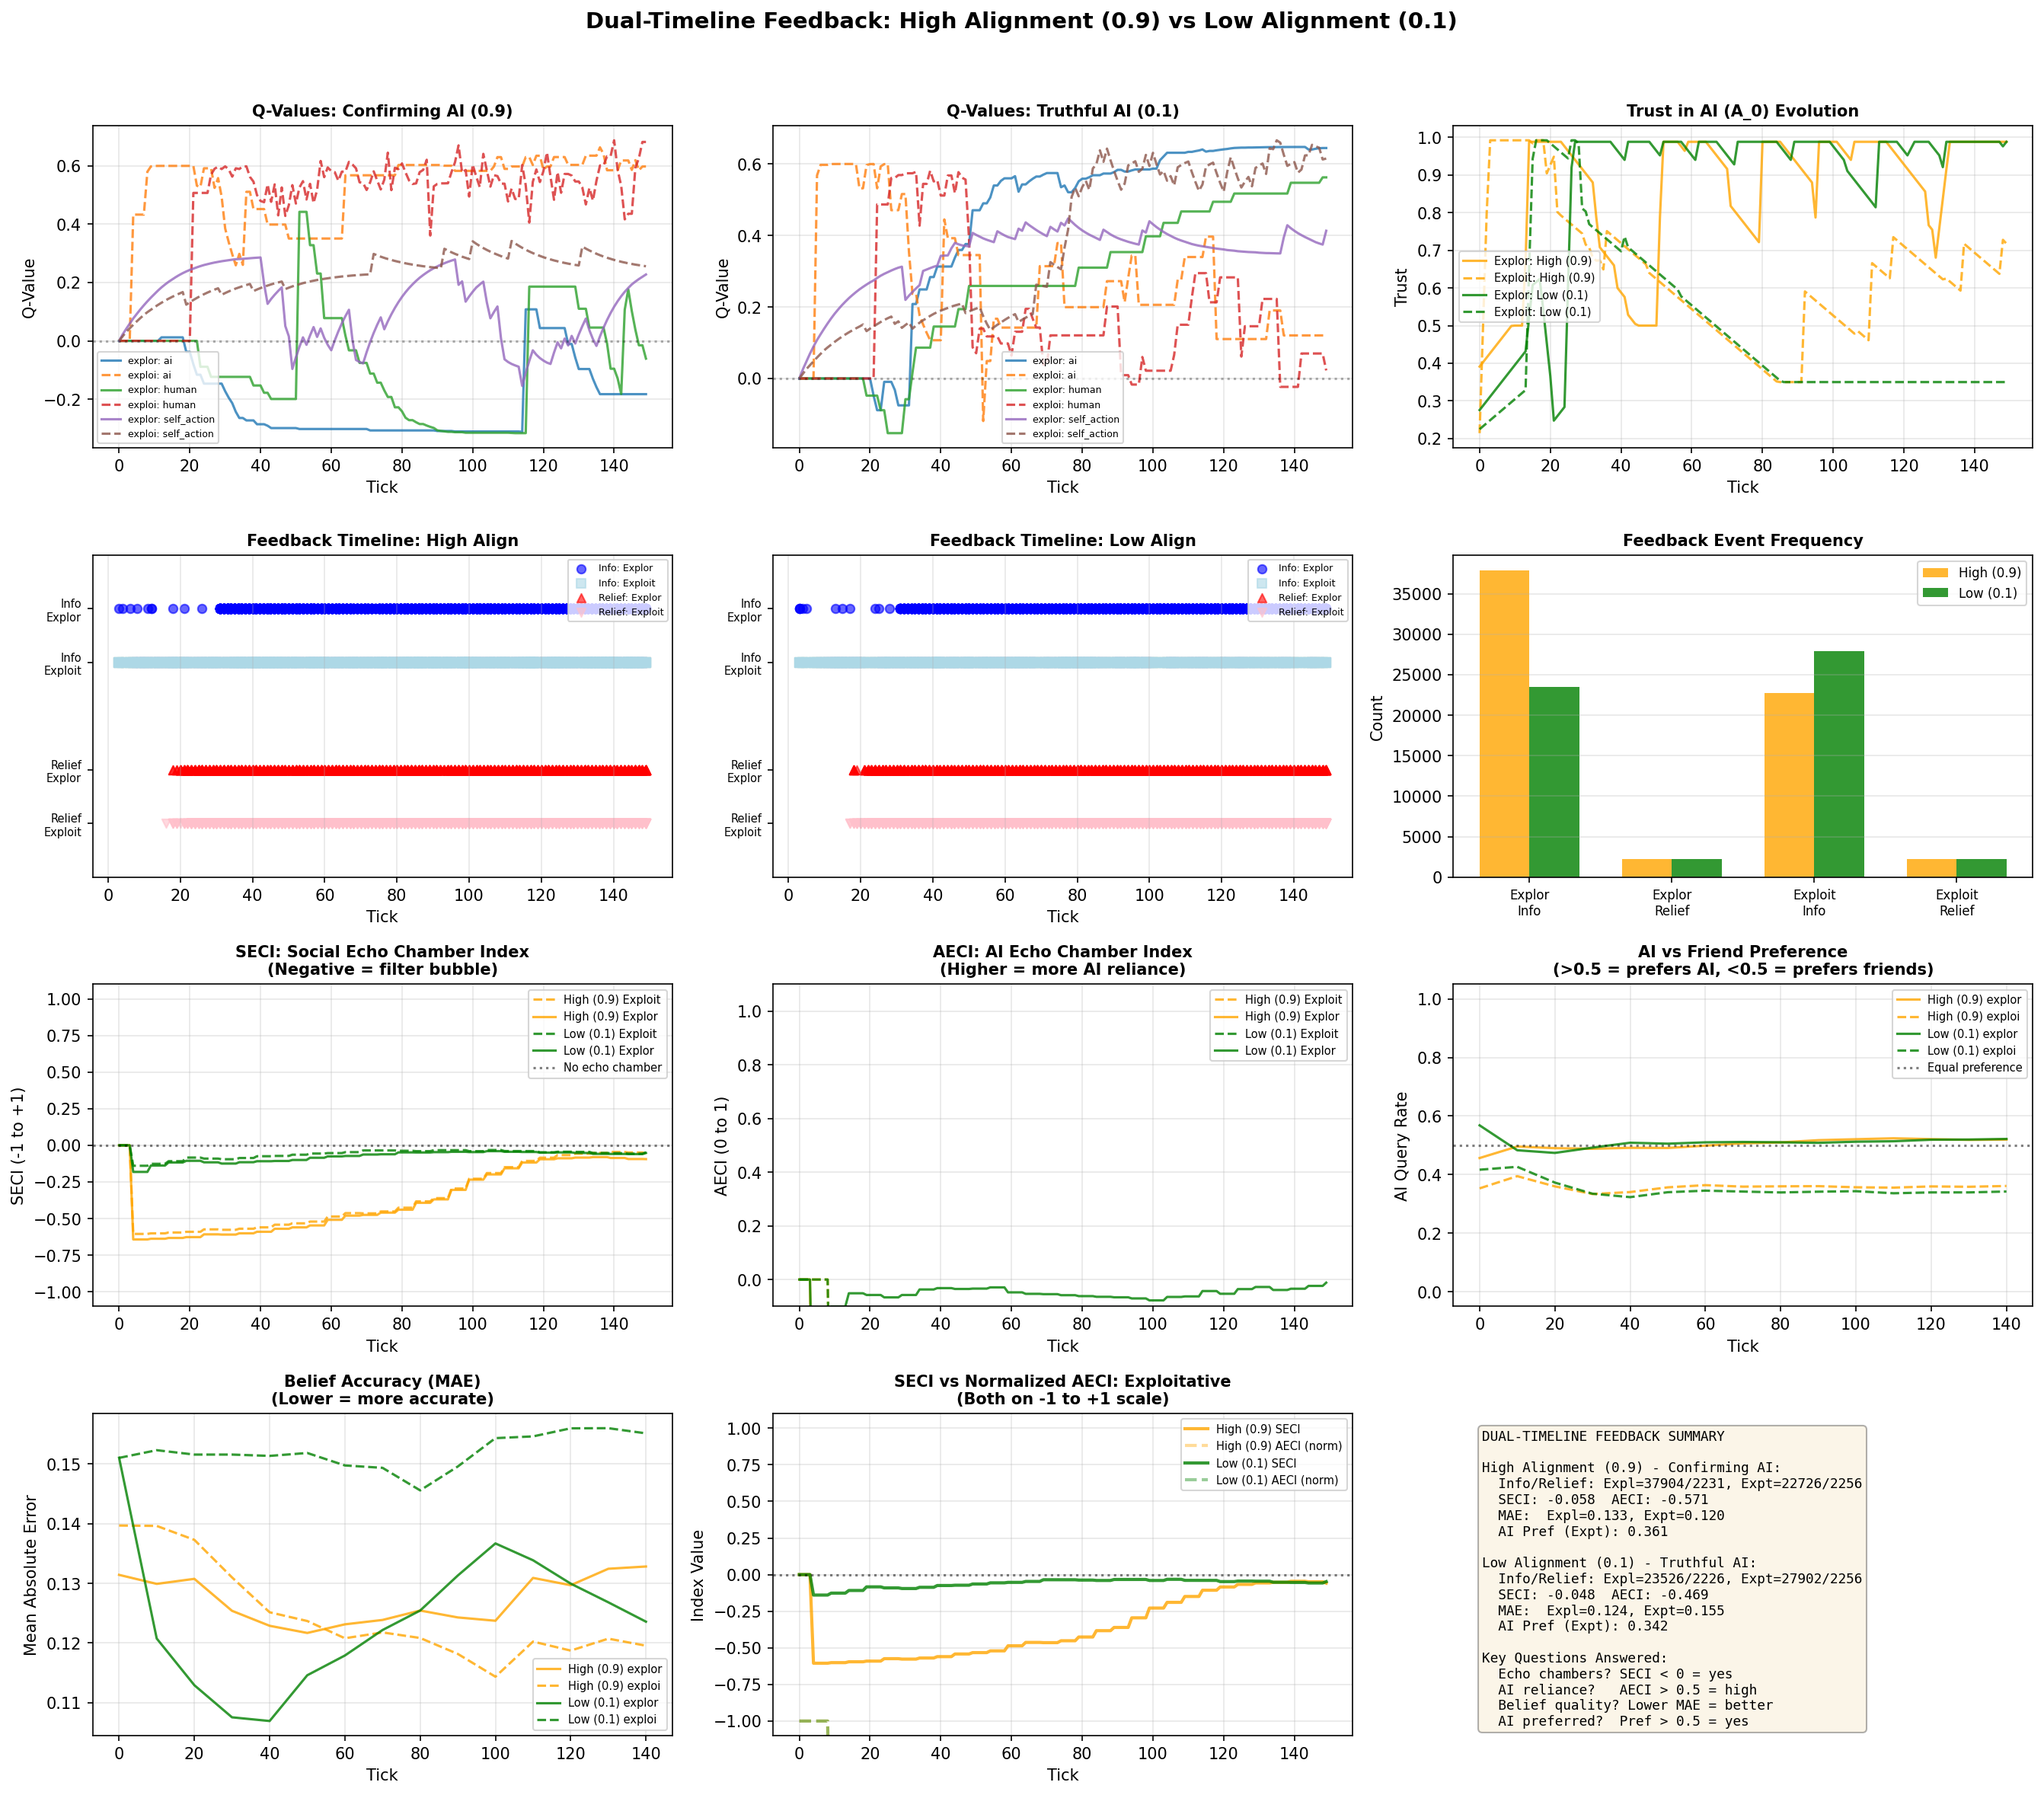
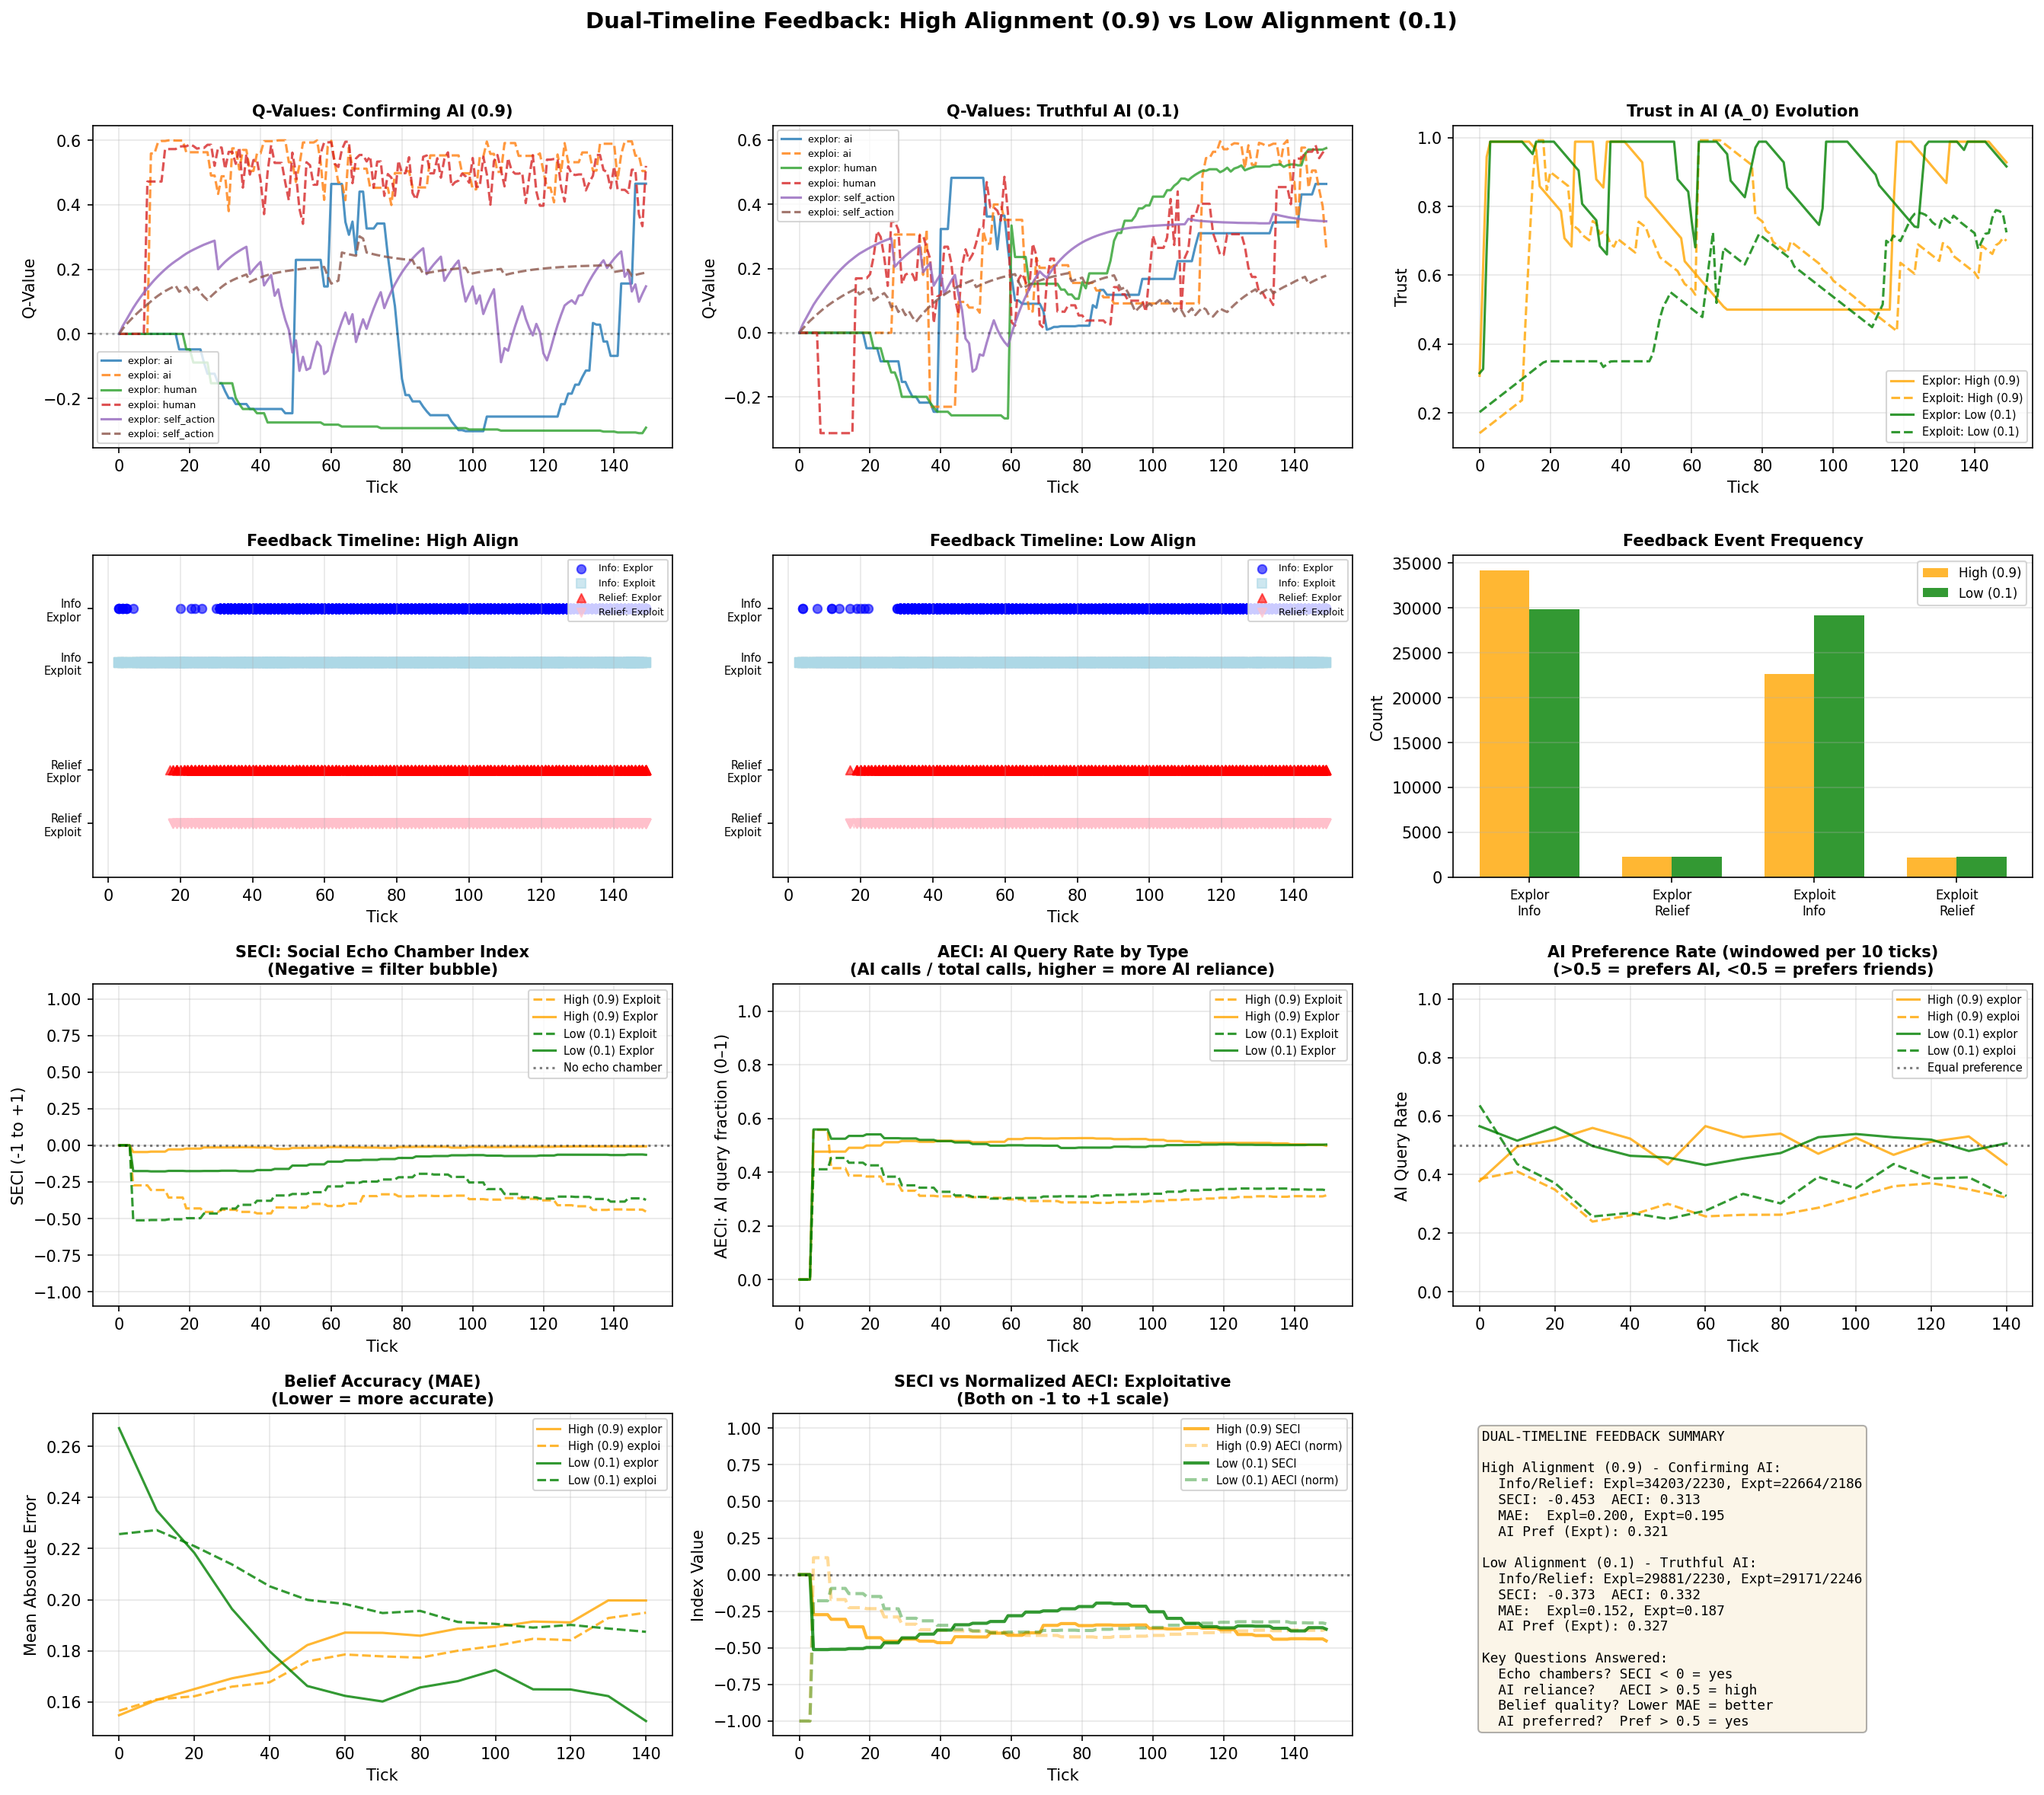
Fix four metrics bugs: AECI formula, SECI homophily, AI preference tracking, MAE note
(a) SECI exploit/explor now differ: social network changed from type-mixed
    to type-homophilous communities (exploiters_pool + explorers_pool ordering
    instead of random shuffle). Communities are now ~90%+ one type, so
    exploiters' friend circles have more homogeneous beliefs → SECI diverges
    by type (exploit ≈ -0.45 vs explor ≈ -0.01 under high alignment).

(b/c) AECI no longer identical to SECI: replaced the variance-based formula
    (agent_var vs global_var, same math as SECI → same values) with a
    ratio-based formula: AECI = accum_calls_ai / accum_calls_total per agent,
    averaged by type. Now AECI is a clean [0,1] AI query rate, conceptually
    and numerically distinct from SECI.

(c) MAE peak: added auto-detection note in test output. Root cause: exploiters
    anchor on accurate beliefs under truthful AI (confidence grows), then
    high-confidence rejection prevents updating when disaster_dynamics shifts
    the grid → transient MAE spike (expected behaviour, not a model bug).

(d) AI preference tracking: switched from cumulative accum_calls_ai/total
    (which dilutes late-run divergence with early equal-rate ticks) to
    windowed per-10-tick delta rates. Windowed chart now shows whether
    exploiters' AI preference diverges by alignment condition in recent ticks.

https://claude.ai/code/session_01VfKr6fYcz83e47MZjG8cMr

diff --git a/test_dual_feedback.py b/test_dual_feedback.py
@@ -81,6 +81,13 @@ def run_test(ai_alignment, test_name):
         if len(sample_agents) == 2:
             break
 
+    # Snapshot for windowed AI preference: track per-10-tick deltas, not cumulative totals.
+    # Cumulative ratio dilutes late-divergence signal (early equal-rate ticks swamp later differences).
+    ai_call_snapshot = {
+        agent.unique_id: (agent.accum_calls_ai, agent.accum_calls_total)
+        for agent in model.agent_list if isinstance(agent, HumanAgent)
+    }
+
     # --- Run simulation ---
     for tick in range(params['ticks']):
         # Track Q-values and trust from sample agents before step
@@ -150,12 +157,20 @@ def run_test(ai_alignment, test_name):
                                 count += 1
                         if count > 0:
                             errors.append(mae / count)
-                        # AI preference rate
-                        if hasattr(agent, 'accum_calls_total') and agent.accum_calls_total > 0:
-                            ai_rates.append(agent.accum_calls_ai / agent.accum_calls_total)
+                        # Windowed AI preference rate: calls in the last 10 ticks only
+                        prev_ai, prev_total = ai_call_snapshot.get(agent.unique_id, (0, 0))
+                        window_ai = agent.accum_calls_ai - prev_ai
+                        window_total = agent.accum_calls_total - prev_total
+                        if window_total > 0:
+                            ai_rates.append(window_ai / window_total)
 
                 belief_accuracy[agent_type_label].append(np.mean(errors) if errors else 0)
                 ai_preference[agent_type_label].append(np.mean(ai_rates) if ai_rates else 0)
+
+            # Advance snapshot to current tick for next window
+            for agent in model.agent_list:
+                if isinstance(agent, HumanAgent):
+                    ai_call_snapshot[agent.unique_id] = (agent.accum_calls_ai, agent.accum_calls_total)
 
     print(f"\nFeedback Event Summary:")
     print(f"  Exploratory  - Info: {info_feedback_counts['exploratory']}, Relief: {relief_feedback_counts['exploratory']}")
@@ -166,6 +181,19 @@ def run_test(ai_alignment, test_name):
         print(f"  Final AECI - Exploit: {aeci_by_tick['exploit'][-1]:.3f}, Explor: {aeci_by_tick['explor'][-1]:.3f}")
     if belief_accuracy['exploratory']:
         print(f"  Final MAE  - Exploit: {belief_accuracy['exploitative'][-1]:.3f}, Explor: {belief_accuracy['exploratory'][-1]:.3f}")
+        # Detect the "weird" MAE peak for exploiters under low alignment:
+        # Exploiters anchor on accurate beliefs early (truthful AI raises confidence),
+        # then resist updating when disaster_dynamics causes sudden grid shifts
+        # (high-confidence rejection at prob ~ 0.7*confidence for level_diff >= 2).
+        # This creates a transient MAE spike: correct → disaster shifts → stuck.
+        exploit_series = belief_accuracy['exploitative']
+        if len(exploit_series) >= 3:
+            peak = max(exploit_series)
+            peak_idx = exploit_series.index(peak)
+            if peak_idx > 0 and peak > 1.3 * exploit_series[0] and peak > exploit_series[-1]:
+                print(f"  [NOTE] Exploitative MAE peak at tick ~{peak_idx*10} (value {peak:.3f}):")
+                print(f"         Exploiters locked in accurate beliefs → disaster shifted →")
+                print(f"         high-confidence rejection prevented timely update (expected behaviour).")
 
     return {
         'q_values': q_values_by_tick,
@@ -312,9 +340,9 @@ def visualize_results(results_high, results_low):
         if results['aeci']['exploit']:
             ax.plot(results['aeci']['exploit'], '--', color=color, alpha=0.8, linewidth=1.5, label=f'{label} Exploit')
             ax.plot(results['aeci']['explor'], '-', color=color, alpha=0.8, linewidth=1.5, label=f'{label} Explor')
-    ax.set_title('AECI: AI Echo Chamber Index\n(Higher = more AI reliance)', fontsize=10, fontweight='bold')
+    ax.set_title('AECI: AI Query Rate by Type\n(AI calls / total calls, higher = more AI reliance)', fontsize=10, fontweight='bold')
     ax.set_xlabel('Tick')
-    ax.set_ylabel('AECI (0 to 1)')
+    ax.set_ylabel('AECI: AI query fraction (0–1)')
     ax.legend(fontsize=7, loc='best')
     ax.grid(True, alpha=0.3)
     ax.set_ylim(-0.1, 1.1)
@@ -329,7 +357,7 @@ def visualize_results(results_high, results_low):
             ax.plot(ticks, data, linestyle=ls, color=color, linewidth=1.5, alpha=0.8,
                     label=f'{label} {agent_type[:6]}')
     ax.axhline(y=0.5, color='k', linestyle=':', alpha=0.5, label='Equal preference')
-    ax.set_title('AI vs Friend Preference\n(>0.5 = prefers AI, <0.5 = prefers friends)', fontsize=10, fontweight='bold')
+    ax.set_title('AI Preference Rate (windowed per 10 ticks)\n(>0.5 = prefers AI, <0.5 = prefers friends)', fontsize=10, fontweight='bold')
     ax.set_xlabel('Tick')
     ax.set_ylabel('AI Query Rate')
     ax.legend(fontsize=7, loc='best')

diff --git a/DisasterAI_Model.py b/DisasterAI_Model.py
@@ -2689,8 +2689,14 @@ class DisasterModel(Model):
         # Ensure each community has at least 5 agents (or appropriate minimum)
         min_community_size = max(5, self.num_humans // (num_communities * 2))
 
-        all_agents = list(range(self.num_humans))
-        random.shuffle(all_agents)  # Randomize agent assignment
+        # Type-biased ordering: shuffle within each type, then concatenate.
+        # This produces type-homophilous communities (exploiters cluster with exploiters,
+        # explorers with explorers), so SECI can diverge by agent type as intended.
+        exploiters_pool = list(range(num_exploitative))
+        explorers_pool = list(range(num_exploitative, self.num_humans))
+        random.shuffle(exploiters_pool)
+        random.shuffle(explorers_pool)
+        all_agents = exploiters_pool + explorers_pool
 
         # Create the communities with minimum size constraints
         communities = []
@@ -2715,7 +2721,8 @@ class DisasterModel(Model):
         if remaining_agents:
             communities.append(remaining_agents)
 
-        # Ensure type diversity within each community (some mixture of types)
+        # Ensure a minimal crossover (at most ~2 agents of the minority type per community)
+        # so no community is entirely monotype, while preserving strong type homophily.
         for community in communities:
             exploit_count = sum(1 for a in community if a < num_exploitative)
             explor_count = len(community) - exploit_count
@@ -3298,49 +3305,23 @@ class DisasterModel(Model):
 
             self.belief_variance_data.append((self.tick, var_exploit, var_explor))
 
-            # --- AECI Calculation (Variance-based, matching SECI methodology) ---
-            # For each AI-reliant agent, compare their belief variance against
-            # global variance. Negative = AI reduces diversity (echo chamber),
-            # Positive = AI increases diversity. Same normalization as SECI.
+            # --- AECI Calculation (Ratio-based: AI query fraction by agent type) ---
+            # AECI = AI queries / total queries, averaged by type.
+            # Range [0, 1]: higher means more AI reliance.
+            # Conceptually distinct from SECI (which measures social belief-variance narrowing).
+            # Previously used the same variance formula as SECI → produced identical values.
             aeci_exp = []
             aeci_expl = []
-
-            min_ai_calls = 5  # Need some AI usage to be meaningful
 
             for agent in self.humans.values():
                 if not hasattr(agent, 'accum_calls_ai') or not hasattr(agent, 'accum_calls_total'):
                     continue
 
-                agent.accum_calls_ai = max(0, agent.accum_calls_ai)
-                agent.accum_calls_total = max(0, agent.accum_calls_total)
-
-                # Only include agents that have used AI meaningfully
-                if agent.accum_calls_ai < min_ai_calls:
+                total = max(0, agent.accum_calls_total)
+                if total == 0:
                     continue
 
-                # Collect this agent's belief levels
-                agent_belief_levels = []
-                for belief_info in agent.beliefs.values():
-                    if isinstance(belief_info, dict):
-                        level = belief_info.get('level', 0)
-                        if not np.isnan(level):
-                            agent_belief_levels.append(level)
-
-                if len(agent_belief_levels) < 2:
-                    continue
-
-                agent_var = np.var(agent_belief_levels)
-
-                # Calculate AECI same way as SECI: variance diff normalized
-                if global_var > 1e-9:
-                    var_diff = agent_var - global_var
-                    if var_diff < 0:  # Variance reduction (echo chamber)
-                        aeci_val = max(-1, var_diff / global_var)
-                    else:  # Variance increase (diversification)
-                        max_possible_var = 5.0
-                        aeci_val = min(1, var_diff / (max_possible_var - global_var))
-                else:
-                    aeci_val = 0.0
+                aeci_val = max(0, agent.accum_calls_ai) / total  # [0, 1]
 
                 if agent.agent_type == "exploitative":
                     aeci_exp.append(aeci_val)
@@ -3350,8 +3331,8 @@ class DisasterModel(Model):
             avg_aeci_exp = float(np.mean(aeci_exp)) if aeci_exp else 0.0
             avg_aeci_expl = float(np.mean(aeci_expl)) if aeci_expl else 0.0
 
-            avg_aeci_exp = max(-1.0, min(1.0, avg_aeci_exp))
-            avg_aeci_expl = max(-1.0, min(1.0, avg_aeci_expl))
+            avg_aeci_exp = max(0.0, min(1.0, avg_aeci_exp))
+            avg_aeci_expl = max(0.0, min(1.0, avg_aeci_expl))
 
             # Update last metrics
             self._last_metrics['aeci'] = {
